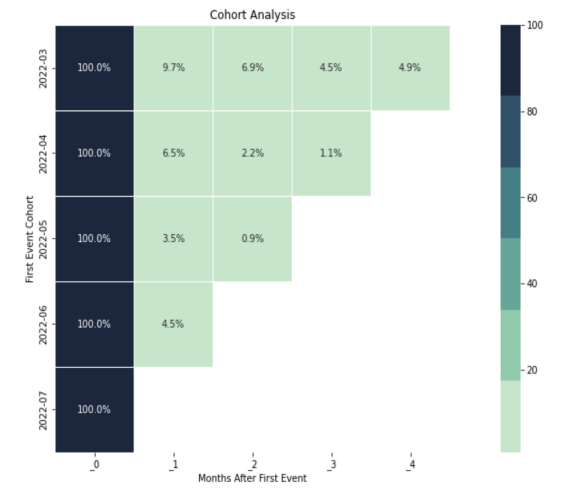
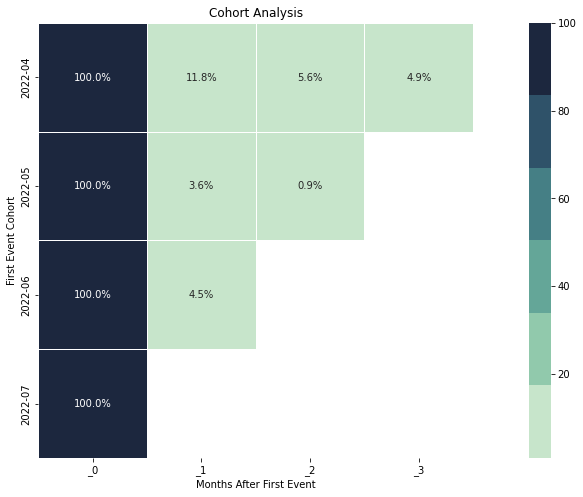
Restrict full timeframe to start at 2022-04

diff --git a/bach/docs/source/example-notebooks/product-analytics.rst b/bach/docs/source/example-notebooks/product-analytics.rst
@@ -23,7 +23,7 @@ We first have to instantiate the model hub and an Objectiv DataFrame object.
 	:skipif: engine is None
 
 	>>> # set the timeframe of the analysis
-	>>> start_date = '2022-03-01'
+	>>> start_date = '2022-04-01'
 	>>> start_date_recent = '2022-07-01'
 	>>> end_date = None
 
@@ -32,7 +32,7 @@ We first have to instantiate the model hub and an Objectiv DataFrame object.
 .. testsetup:: product-analytics
 	:skipif: engine is None
 
-	start_date = '2022-03-01'
+	start_date = '2022-04-01'
 	start_date_recent = '2022-07-01'
 	end_date = '2022-07-30'
 	pd.set_option('display.max_colwidth', 93)
@@ -125,7 +125,6 @@ For `monthly_users`, the default time_aggregation is overridden by using a diffe
 	2022-06     497
 	2022-05    1682
 	2022-04     304
-	2022-03     288
 	Name: unique_users, dtype: int64
 
 .. doctest:: product-analytics
@@ -198,13 +197,12 @@ The users' activity starts to be counted from the `start_date` specified when th
 	>>> # retention matrix, monthly, with percentages
 	>>> retention_matrix = modelhub.aggregate.retention_matrix(df_full, time_period='monthly', percentage=True, display=True)
 	>>> retention_matrix.head()
-	                 _0        _1        _2        _3        _4
-	first_cohort                                               
-	2022-03       100.0  9.722222  6.944444  4.513889  4.861111
-	2022-04       100.0  6.521739  2.173913  1.086957       NaN
-	2022-05       100.0  3.527981  0.851582       NaN       NaN
-	2022-06       100.0  4.523810       NaN       NaN       NaN
-	2022-07       100.0       NaN       NaN       NaN       NaN
+	                 _0         _1        _2        _3
+	first_cohort
+	2022-04       100.0  11.842105  5.592105  4.934211
+	2022-05       100.0   3.584447  0.850547       NaN
+	2022-06       100.0   4.513064       NaN       NaN
+	2022-07       100.0        NaN       NaN       NaN
 
 .. image:: ../img/docs/example-notebooks/product-analytics-retention-matrix.png
   :alt: Retention Matrix
@@ -212,8 +210,8 @@ The users' activity starts to be counted from the `start_date` specified when th
 Drilling down retention cohorts
 ~~~~~~~~~~~~~~~~~~~~~~~~~~~~~~~
 
-In the retention matrix above, we can see there's a drop in retained users in the second cohort the next 
-month. We can directly zoom into the different cohorts and see the difference.
+In the retention matrix above, we can see there's a strong drop in retained users in the second cohort the 
+next month. We can directly zoom into the different cohorts and see the difference.
 
 .. doctest:: product-analytics
 	:skipif: engine is None
@@ -228,31 +226,31 @@ month. We can directly zoom into the different cohorts and see the difference.
 	:skipif: engine is None
 
 	>>> # filter data where users belong to the #0 cohort
-	>>> cohort0_filter = (df_with_cohorts['first_cohort'] > datetime(2022, 3, 1)) & (df_with_cohorts['first_cohort'] < datetime(2022, 4, 1))
+	>>> cohort0_filter = (df_with_cohorts['first_cohort'] > datetime(2022, 4, 1)) & (df_with_cohorts['first_cohort'] < datetime(2022, 5, 1))
 	>>> df_with_cohorts[cohort0_filter]['event_type'].value_counts().head()
 	event_type
-	VisibleEvent              3646
-	PressEvent                2363
-	ApplicationLoadedEvent    2004
-	MediaLoadEvent             754
-	HiddenEvent                293
+	VisibleEvent              3712
+	PressEvent                2513
+	ApplicationLoadedEvent    1794
+	MediaLoadEvent             601
+	HiddenEvent                259
 	Name: value_counts, dtype: int64
 
 .. doctest:: product-analytics
 	:skipif: engine is None
 
 	>>> # filter data where users belong to the #1 cohort (the problematic one)
-	>>> cohort1_filter = (df_with_cohorts['first_cohort'] > datetime(2022, 4, 1)) & (df_with_cohorts['first_cohort'] < datetime(2022, 5, 1))
+	>>> cohort1_filter = (df_with_cohorts['first_cohort'] > datetime(2022, 5, 1)) & (df_with_cohorts['first_cohort'] < datetime(2022, 6, 1))
 	>>> df_with_cohorts[cohort1_filter]['event_type'].value_counts().head()
 	event_type
-	PressEvent                1202
-	VisibleEvent              1191
-	ApplicationLoadedEvent     630
-	MediaLoadEvent             246
-	HiddenEvent                128
+	VisibleEvent              5074
+	PressEvent                4661
+	ApplicationLoadedEvent    2642
+	MediaLoadEvent            1360
+	HiddenEvent                688
 	Name: value_counts, dtype: int64
 
-One interesting thing to note here, for example, is that there are relatively more `VisibleEvents 
+One interesting thing to note here, for example, is that there are relatively less `VisibleEvents 
 <https://objectiv.io/docs/taxonomy/reference/events/VisibleEvent>`_ in the first cohort than in the second 
 'problematic' one.
 
@@ -289,7 +287,6 @@ Here we calculate the average duration of a user's session, using the
 	2022-06   0 days 00:02:54.086814
 	2022-05   0 days 00:02:58.417140
 	2022-04   0 days 00:03:02.069818
-	2022-03   0 days 00:04:24.103417
 	Name: session_duration, dtype: timedelta64[ns]
 
 .. doctest:: product-analytics
@@ -335,17 +332,10 @@ To see the average time spent by users in each main product section (per month i
 	>>> session_duration = modelhub.aggregate.session_duration(df, groupby='session_id', exclude_bounces=False)
 	>>> # materialization is needed because the expression of the created Series contains aggregated data, and it is not allowed to aggregate that.
 	>>> session_duration.materialize().quantile(q=[0.25, 0.50, 0.75]).head()
-<<<<<<< Updated upstream
-	q
-	0.25   0 days 00:00:00.013000
-	0.50   0 days 00:00:05.893000
-	0.75   0 days 00:01:10.487500
-=======
 	quantile
 	0.25          0 days 00:00:00
 	0.50   0 days 00:00:00.883000
 	0.75   0 days 00:00:55.435000
->>>>>>> Stashed changes
 	Name: session_duration, dtype: timedelta64[ns]
 
 .. admonition:: Reference
@@ -604,7 +594,7 @@ dashboards with this <https://objectiv.io/docs/home/up#creating-bi-dashboards>`_
 	               jsonb_path_query_array(cast("value"->>'global_contexts' AS JSONB), '$[*] ? (@._type == $type)', '{"type":"ApplicationContext"}') AS "application"
 	          FROM "data"
 	       ),
-	       "getitem_where_boolean___64691f3d96b0031460768c7d88c29861" AS (
+	       "getitem_where_boolean___c84bfa6accc1ce3212b86ef949acc5da" AS (
 	        SELECT "event_id" AS "event_id",
 	               "day" AS "day",
 	               "moment" AS "moment",
@@ -615,9 +605,9 @@ dashboards with this <https://objectiv.io/docs/home/up#creating-bi-dashboards>`_
 	               "time" AS "time",
 	               "application" AS "application"
 	          FROM "manual_materialize___e627e9bdda472e6a76c583c57c6d37ed"
-	         WHERE ((("day" >= cast('2022-03-01' AS date))) AND (("day" <= cast('2022-07-30' AS date))))
+	         WHERE ((("day" >= cast('2022-04-01' AS date))) AND (("day" <= cast('2022-07-30' AS date))))
 	       ),
-	       "context_data___5420e4ab121cc6ebf6ded99c4338ea34" AS (
+	       "context_data___aa7d9ced0fae9455d776b199f0e18dab" AS (
 	        SELECT "event_id" AS "event_id",
 	               "day" AS "day",
 	               "moment" AS "moment",
@@ -626,9 +616,9 @@ dashboards with this <https://objectiv.io/docs/home/up#creating-bi-dashboards>`_
 	               "event_type" AS "event_type",
 	               "stack_event_types" AS "stack_event_types",
 	               "application" AS "application"
-	          FROM "getitem_where_boolean___64691f3d96b0031460768c7d88c29861"
+	          FROM "getitem_where_boolean___c84bfa6accc1ce3212b86ef949acc5da"
 	       ),
-	       "session_starts___14d0995bc0268269f794bdfa05982ec4" AS (
+	       "session_starts___525de4176fbdec684c13a2e799cd4534" AS (
 	        SELECT "event_id" AS "event_id",
 	               "day" AS "day",
 	               "moment" AS "moment",
@@ -640,9 +630,9 @@ dashboards with this <https://objectiv.io/docs/home/up#creating-bi-dashboards>`_
 	               CASE WHEN (extract(epoch FROM (("moment") - (lag("moment", 1, cast(NULL AS timestamp WITHOUT TIME ZONE)) OVER (PARTITION BY "user_id" ORDER BY "moment" ASC NULLS LAST, "event_id" ASC NULLS LAST RANGE BETWEEN UNBOUNDED PRECEDING AND CURRENT ROW)))) <= cast(1800 AS bigint)) THEN cast(NULL AS boolean)
 	                    ELSE cast(TRUE AS boolean)
 	                     END AS "is_start_of_session"
-	          FROM "context_data___5420e4ab121cc6ebf6ded99c4338ea34"
+	          FROM "context_data___aa7d9ced0fae9455d776b199f0e18dab"
 	       ),
-	       "session_id_and_count___911c8ceaa9af5ddae1f70759155ef6e3" AS (
+	       "session_id_and_count___7b0999319dff5df7b588577160816ce2" AS (
 	        SELECT "event_id" AS "event_id",
 	               "day" AS "day",
 	               "moment" AS "moment",
@@ -656,9 +646,9 @@ dashboards with this <https://objectiv.io/docs/home/up#creating-bi-dashboards>`_
 	                    ELSE cast(NULL AS bigint)
 	                     END AS "session_start_id",
 	               count("is_start_of_session") OVER (ORDER BY "user_id" ASC NULLS LAST, "moment" ASC NULLS LAST, "event_id" ASC NULLS LAST RANGE BETWEEN UNBOUNDED PRECEDING AND CURRENT ROW) AS "is_one_session"
-	          FROM "session_starts___14d0995bc0268269f794bdfa05982ec4"
+	          FROM "session_starts___525de4176fbdec684c13a2e799cd4534"
 	       ),
-	       "objectiv_sessionized_data___054d4037d24a400c0d317cca2546947e" AS (
+	       "objectiv_sessionized_data___5aac3e8ab26bb45145b36e9afa63cb33" AS (
 	        SELECT "event_id" AS "event_id",
 	               "day" AS "day",
 	               "moment" AS "moment",
@@ -672,10 +662,10 @@ dashboards with this <https://objectiv.io/docs/home/up#creating-bi-dashboards>`_
 	               "is_one_session" AS "is_one_session",
 	               first_value("session_start_id") OVER (PARTITION BY "is_one_session" ORDER BY "moment" ASC NULLS LAST, "event_id" ASC NULLS LAST RANGE BETWEEN UNBOUNDED PRECEDING AND CURRENT ROW) AS "session_id",
 	               row_number() OVER (PARTITION BY "is_one_session" ORDER BY "moment" ASC NULLS LAST, "event_id" ASC NULLS LAST RANGE BETWEEN UNBOUNDED PRECEDING AND CURRENT ROW) AS "session_hit_number"
-	          FROM "session_id_and_count___911c8ceaa9af5ddae1f70759155ef6e3"
+	          FROM "session_id_and_count___7b0999319dff5df7b588577160816ce2"
 	       ) SELECT to_char("moment", 'YYYY"-"MM') AS "time_aggregation",
 	       count(DISTINCT "user_id") AS "unique_users"
-	  FROM "objectiv_sessionized_data___054d4037d24a400c0d317cca2546947e"
+	  FROM "objectiv_sessionized_data___5aac3e8ab26bb45145b36e9afa63cb33"
 	 GROUP BY to_char("moment", 'YYYY"-"MM')
 	<BLANKLINE>
 
